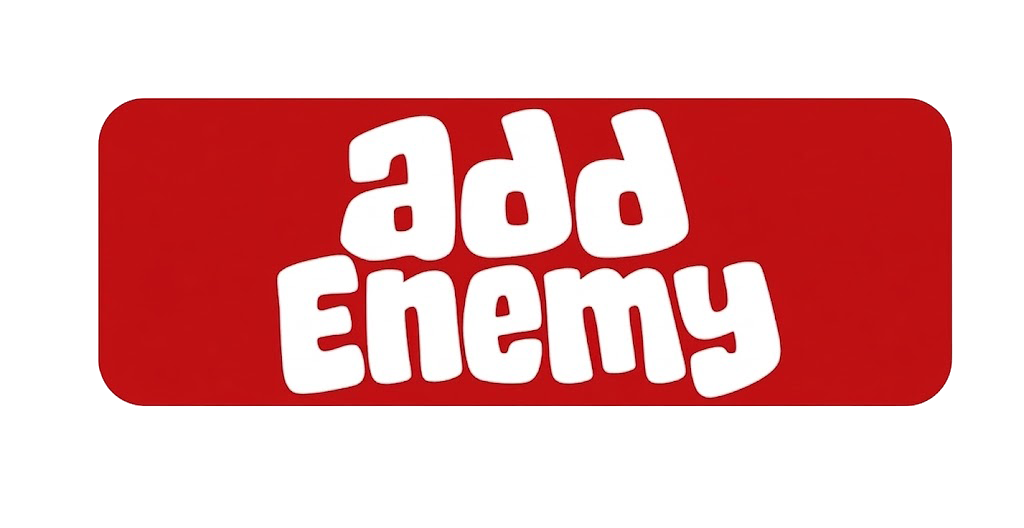
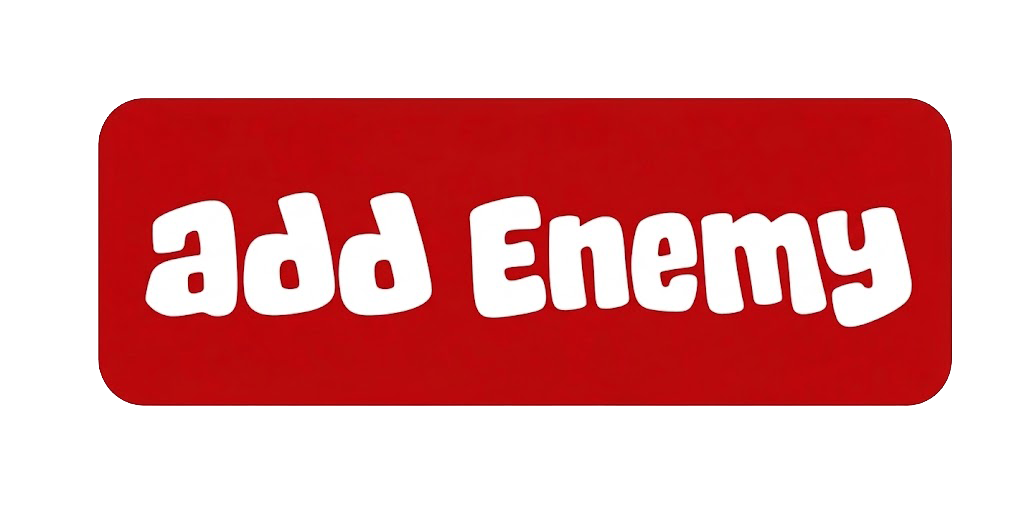
Keep 'Add Enemy' button visible after clicking, displaying disabled state

Changed region(s): [[0.125, 0.1818, 0.9062, 0.7879]]

diff --git a/src/components/PostCard.tsx b/src/components/PostCard.tsx
@@ -80,19 +80,19 @@ const PostCard = ({ id, username, avatar, image, caption, time, type = 'image', 
           <span className="text-sm font-semibold group-hover:text-purple-600 transition-colors">{username}</span>
         </div>
         <div className="flex items-center space-x-2">
-          {!isMe && (!isEnemy || showAddedFeedback) && (
+          {!isMe && (
              <div className="flex items-center">
               <button 
                 onClick={handleAddEnemy}
                 className={cn(
-                  "transition-all duration-300 transform active:scale-95",
-                  showAddedFeedback ? "opacity-50 grayscale" : "hover:opacity-80"
+                  "transition-all duration-300 transform",
+                  isEnemy ? "opacity-40 grayscale cursor-not-allowed" : "hover:opacity-80 active:scale-95 drop-shadow-sm"
                 )}
               >
                 <img 
                   src="/add-enemy.png" 
-                  alt={showAddedFeedback ? t('home_added_enemy') : t('home_add_enemy')} 
-                  className="h-[34px] w-auto object-contain shadow-sm rounded-lg"
+                  alt={isEnemy ? t('home_added_enemy') : t('home_add_enemy')} 
+                  className="h-[34px] w-auto object-contain rounded-xl"
                 />
               </button>
             </div>
